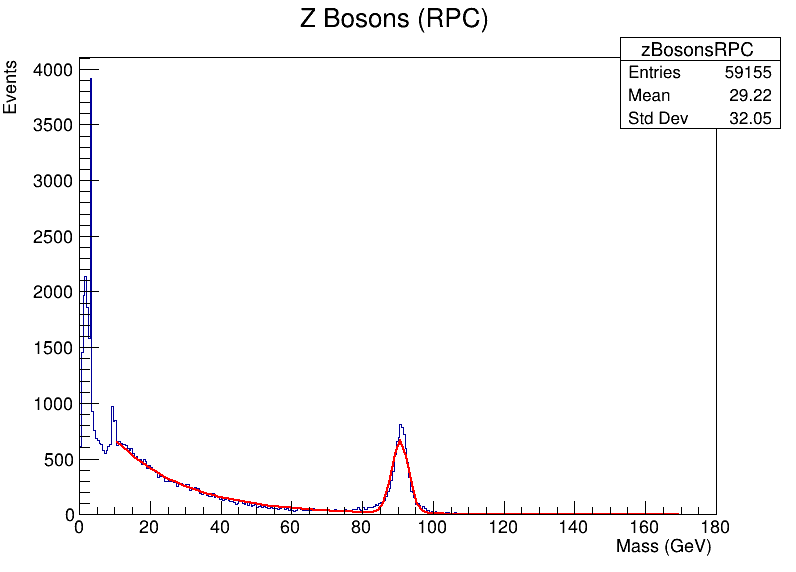
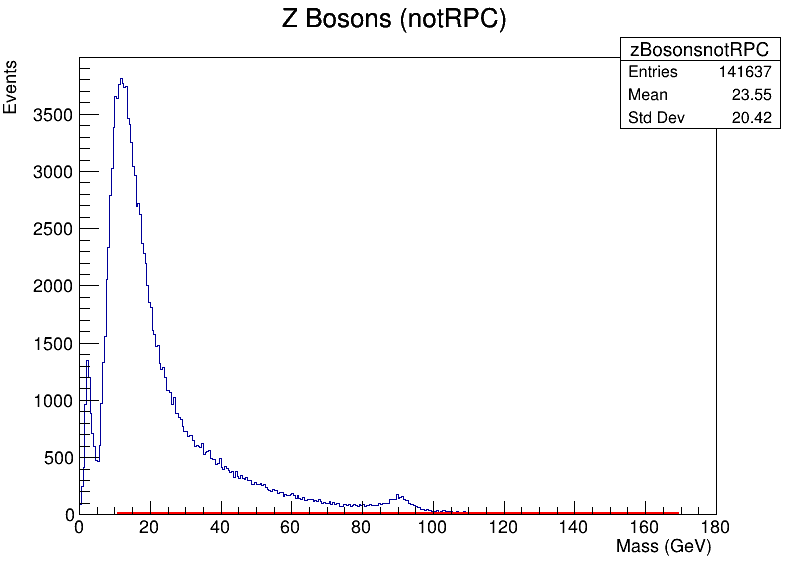
hist with data2

diff --git a/Analysis/drawHistograms.C b/Analysis/drawHistograms.C
@@ -79,7 +79,7 @@ void drawHistograms() {
     TF1 *fitFuncRPC = new TF1("fitFuncRPC", "gaus(0) + [3]*exp(-[4]*x)", 10, 170);
     
     // Set parameter limits for RPC fit
-    fitFuncRPC->SetParLimits(0, 500, 1000);  // Gaussian amplitude
+    fitFuncRPC->SetParLimits(0, 500, 2000);  // Gaussian amplitude
     fitFuncRPC->SetParLimits(1, 80, 100);  // Gaussian mean
     fitFuncRPC->SetParLimits(2, 0, 5);    // Gaussian sigma
     fitFuncRPC->SetParLimits(3, 0, 10000);  // Exponential amplitude
@@ -94,14 +94,14 @@ void drawHistograms() {
     TF1 *fitFuncnotRPC = new TF1("fitFuncnotRPC", "gaus(0) + [3]*exp(-[4]*x)", 10, 170);
     
     // Set parameter limits for notRPC fit
-    fitFuncRPC->SetParLimits(0, 500, 1000);  // Gaussian amplitude
+    fitFuncRPC->SetParLimits(0, 0, 1000);  // Gaussian amplitude
     fitFuncRPC->SetParLimits(1, 80, 100);  // Gaussian mean
     fitFuncRPC->SetParLimits(2, 0, 5);    // Gaussian sigma
     fitFuncRPC->SetParLimits(3, 0, 10000);  // Exponential amplitude
     fitFuncRPC->SetParLimits(4, 0, 1);     // Exponential decay constant
     
     h_zBosonsnotRPC->Fit(fitFuncnotRPC, "R");
-    c2->SaveAs("zBosonsnotRPC.png");
+    c3->SaveAs("zBosonsnotRPC.png");
 
 
     std::ofstream logFile("fit_results.txt");
